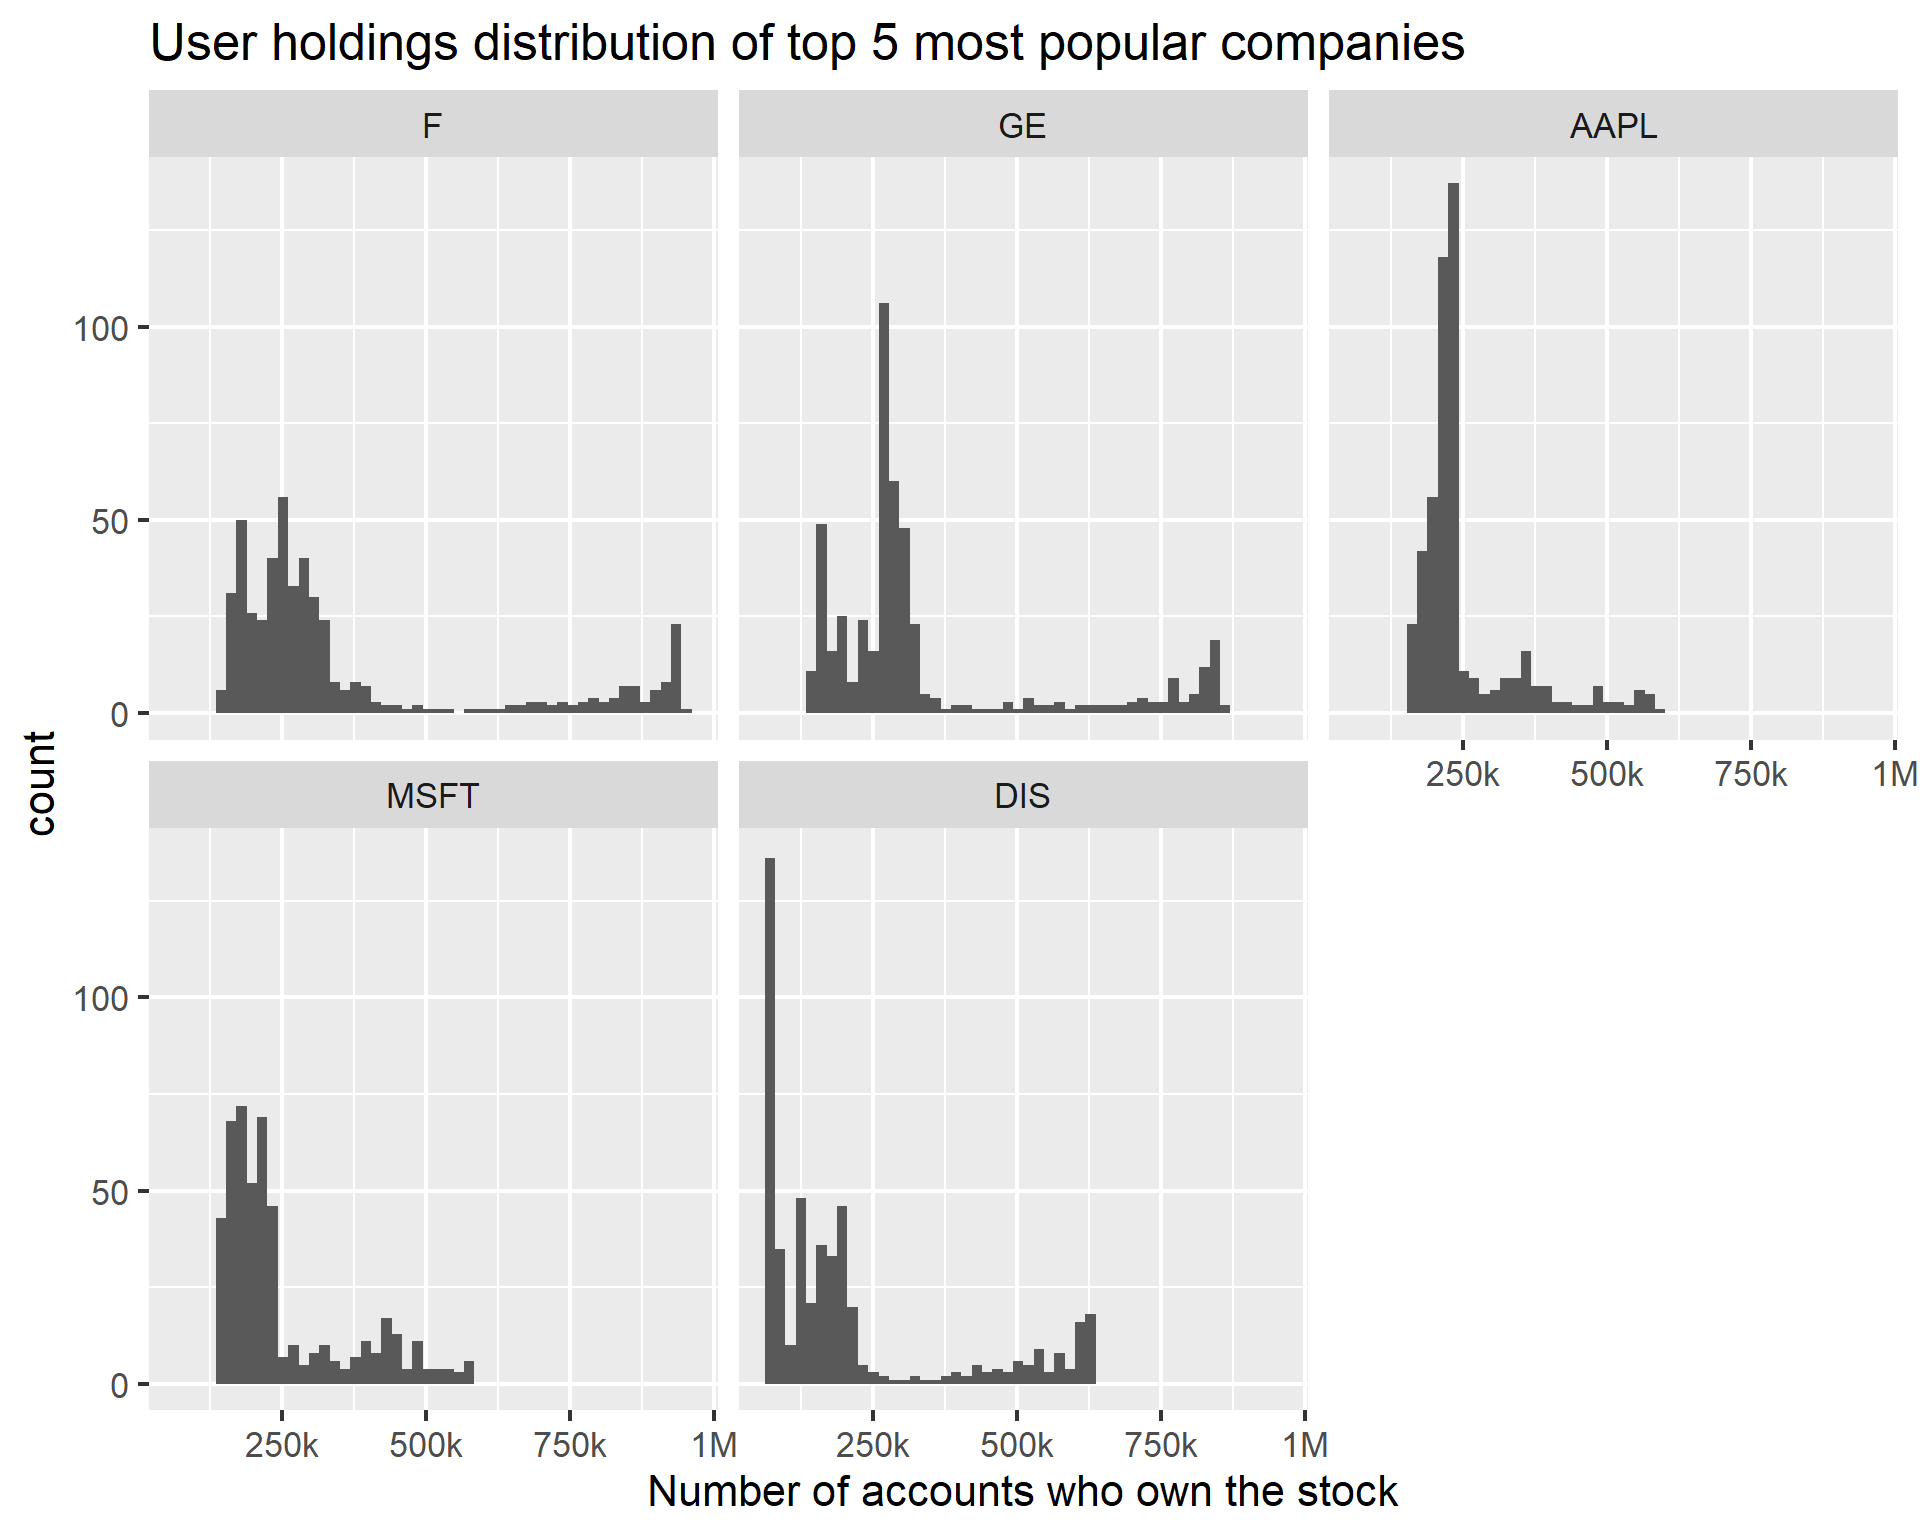
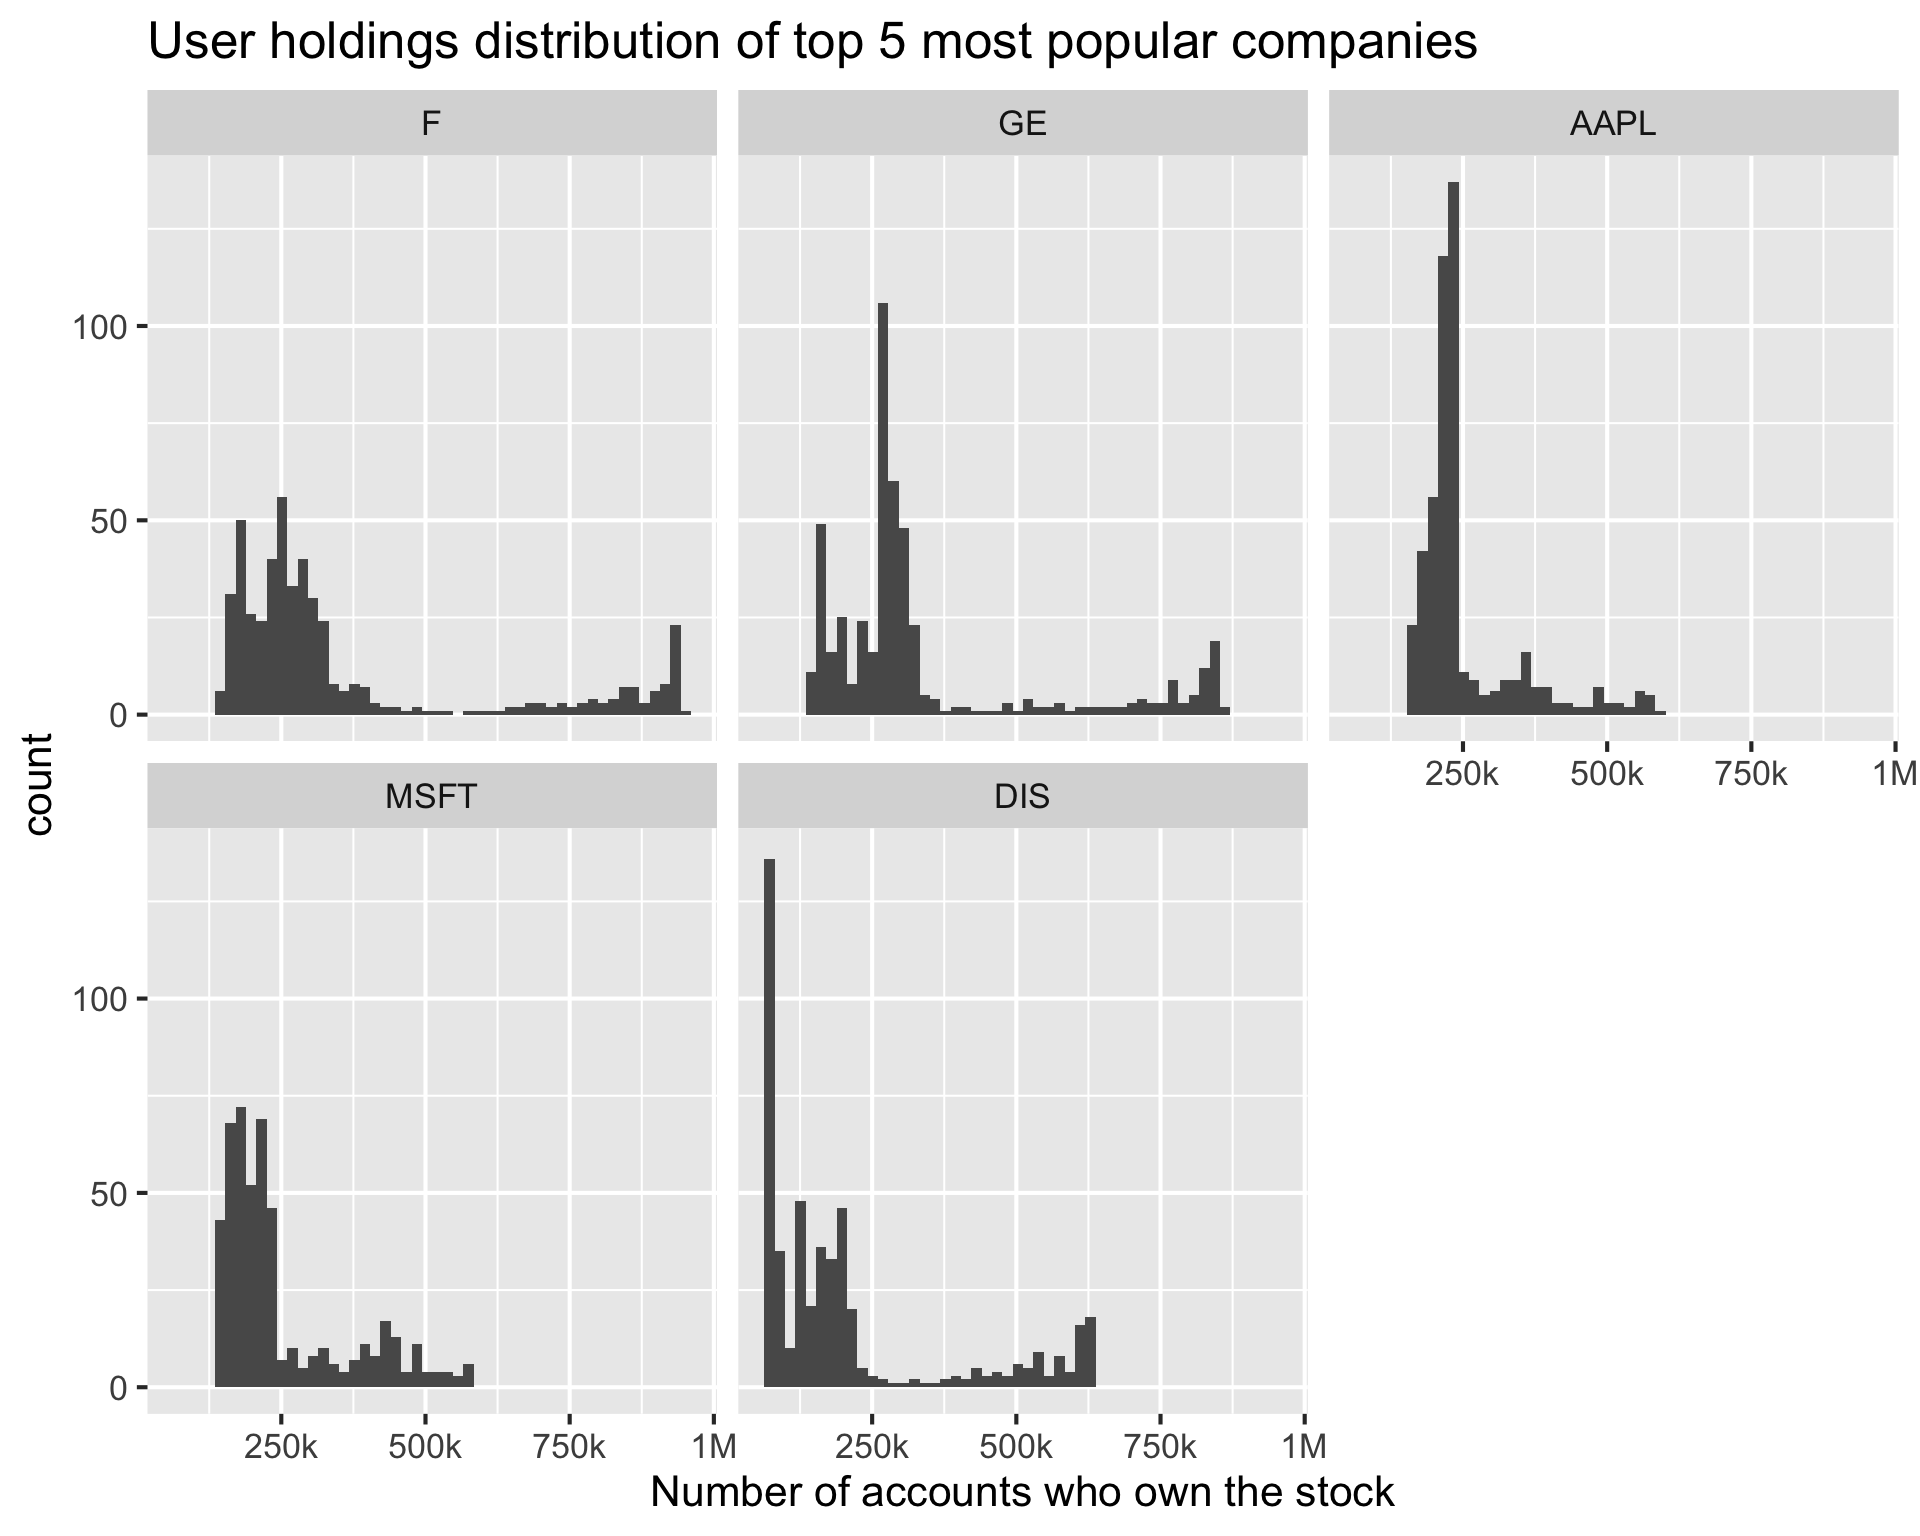
tiny changes on color

diff --git a/docs/results.html b/docs/results.html
@@ -50,7 +50,8 @@
 
 
 
-<script src="libs/accessible-code-block-0.0.1/empty-anchor.js"></script>
+<link href="libs/anchor-sections-1.0/anchor-sections.css" rel="stylesheet" />
+<script src="libs/anchor-sections-1.0/anchor-sections.js"></script>
 
 
 
@@ -185,12 +186,12 @@
 <p>Some observations from the above plot:</p>
 <ul>
 <li><p>There is a major drop in stock prices for all <code>very_popular</code> companies in March 2020. These prices dropped almost two weeks after the first COVID case in the US.</p></li>
-<li><p>Prices recovered from their drop during end of March 2020 and began rising. This increasing trend is in sync with the increasing number of Robinhood users holding these stocks.</p></li>
-<li><p>Price is negatively correlated with the popularity of a stock. For example, Ford and General Electric have the lowest stock prices among the <code>very_popular</code>and they have the highest user’s holding. This aligns with our intuition that the low price makes these two stocks an attractive investment for Robinhood’s users. On the other hand, Microsoft in August 2020 was the most expensive stock to buy and had the lowest amount of users holding it.</p></li>
-<li><p>All <code>very_popular</code> companie’s stock price was dropping during March 2020. After March 2020 stock prices increased. For Microsoft and Apple, stock prices rose so sharply until August 2020 that they were almost double of what they were in August 2018. This rise in price also follows the trend of the increase in numbers of users investing in these companies.</p></li>
-<li><p>Interestingly enough, even though Disney in August 2020 had more user’s holding it’s stock than Apple and Microsoft, it didn’t pick up the sharp increase in price. August 2020 and August 2018 prices are not that different.</p></li>
-<li><p>From August 2018 to November 2020, Disney’s and Microsoft’s stock price was following similar patterns. However, from November 2020 onward, Microsoft had an increase in price and Disney a drop in price. In August 2020 Microsoft’s stock price was almost twice as much as Disney’s.</p></li>
-<li><p>Disney at the end of April 2019 announced plans to launch its own streaming video platform. We can therefore see users increased interst in Disney stock through an increase both in popularity and price. This trend ended due to the pandemic.</p></li>
+<li><p>Prices recovered from their drop during end of March 2020 and began to rise. This price movement is in sync with the increasing number of Robinhood users holding these stocks.</p></li>
+<li><p>Within the top 5, stock price is negatively correlated with the popularity of a stock. For example, Ford and General Electric have the lowest stock prices among the <code>very_popular</code>and they have the highest user holding. This aligns with our intuition that the low price makes these two stocks an attractive investment for Robinhood users. On the other hand, Microsoft in August 2020 was the most expensive stock to buy and had the lowest amount of users holding it.</p></li>
+<li><p>All <code>very_popular</code> companies’s stock price dropped during March 2020. After March 2020 stock prices increased. For Microsoft and Apple, stock prices rose so sharply until August 2020 that they were almost double of what they were in August 2018. This rise in price also follows the trend of the increase in numbers of users investing in these companies.</p></li>
+<li><p>Interestingly enough, even though Disney in August 2020 had more investors than Apple and Microsoft, its price did not pick up sharply in a corresponding manner. The price as of August 2020 was not that different from its price as of August 2018 prices.</p></li>
+<li>From August 2018 to November 2020, Disney’s and Microsoft’s stock price was following similar patterns. However, from November 2020 onward, Microsoft had an increase in price whereas Disney saw a drop in price. In August 2020 Microsoft’s stock price was almost twice as much as Disney’s.</li>
+<li><p>Disney at the end of April 2019 announced plans to launch its own streaming video platform. We can therefore see a slight increase in both stock price and number of investors at that time. However, this trend ended due to the pandemic.</p></li>
 </ul>
 <p>In order to be able to better compare the stock prices among those companies, we standardized all prices to be 100 in August 2018. Our goal is to see their relative increases and decreases till August 2020.</p>
 <p><img src="finalproj_files/figure-html/qplot599-1.png" width="1920" /></p>
@@ -200,15 +201,16 @@
 <li><p>Ford’s price was steady throughout 2018-2019 until March 2019. After than price drop, it didn’t manage to recover fully.</p></li>
 <li><p>Apple’s stock price wasn’t as high as Disney’s and Microsoft’s from December 2018 to October 2019. However, it steadily rose since June 2019 and surpassed Disney’s price in October 2019.</p></li>
 <li><p>It is evident from this graph that both Apple and Microsoft have exhibited similar increasing price patterns during August 2018 - August 2020.</p></li>
+<li><p>Looking at the relative normalized stock performance, we found little correlation between stock performance and number of investors. For example, Ford has poor stock performance in which the stock price still did not recover back to pre-COVID or Aug 2018 levels. Nonetheless, the number of investors was the highest for Ford. Similarly, Apple had the best stock performance relatively to August 2018 but it only had the 4th highest number of investors by August 2020, possibly due to the high stock price as we previously mentioned.</p></li>
 </ul>
-<p>We also looked at the market capitalization of these 5 companies. The market capitalization measures the size of the company’s outstanding equity value. It is calculated by stock price multiplied by the number of shares outstanding.</p>
+<p>We also looked at the market capitalization (market cap) of these 5 companies. The market capitalization measures the size of the company’s outstanding equity value. It is calculated by stock price multiplied by the number of shares outstanding.</p>
 <p><img src="finalproj_files/figure-html/qplot58-1.png" width="1920" /></p>
-<p>Since stock price level is an input in the market capitalization, it is unsurprising that the daily market cap of the companies follow a similar shape to the stock price. In this graph, Apple has a higher market cap than Microsoft despite Microsoft having a higher stock price. This trend is not statistically meaningful because Microsoft simply has lower number of shares outstanding.</p>
-<p>From the graphs, we can see that across all 5 companies, the stock price took a hit in March 2020 coinciding with the onset of the pandemic in the US. After the initial drop in price, the stock prices slowly increased back up. It is not consistent whether the stock prices increased back to the pre-pandemic level. One theory for this behavior is that investors using Robinhood took the opportunity to buy stocks when the price was low. Since these 5 companies are well established companies that are unlikely to be negatively impacted by the pandemic, investors increased their ownership of these stocks. They continued to buy these stocks as the stock prices continue to rise as a positive feedback loop to the positive returns on their investments.</p>
-<p>Lastly, we looked at the VIX index which measure the market-implied pricing for markets volatility. It is an industry standard metric that indicates investor’s expectation for uncertainty with a higher number corresponding to higher volatility.</p>
+<p>Since stock price level is an input in the market capitalization, it is unsurprising that the daily market cap of the companies follow a similar shape to the stock price. Looking at standardized market capitalization make sense in this case because different companies may have varying number of shares at different points of time which do not typically influence an investor’s decision to investor.</p>
+<p>From the graphs, we can see that across all 5 companies, the stock price took a hit in March 2020 coinciding with the onset of the pandemic in the US reducing the corresponding market cap. After the initial drop in price, the stock prices slowly increased back up, increasing the market cap. It is not consistent whether the stock prices increased back to the pre-pandemic level. One theory for this behavior is that investors using Robinhood took the opportunity to buy stocks when the price was low. Since these 5 companies are well established companies that are unlikely to be negatively impacted by the pandemic, investors increased their ownership of these stocks. They continued to buy these stocks as the stock prices continue to rise as a positive feedback loop to the positive returns on their investments.</p>
+<p>Lastly, we looked at the VIX index which measures the market-implied pricing for stock markets volatility. It is an industry standard metric that indicates investor’s expectation for uncertainty with a higher number corresponding to higher volatility.</p>
 <p><img src="finalproj_files/figure-html/qplot60-1.png" width="960" /></p>
 <p>We see that the VIX spiked significantly during the March-April 2020 time frame corresponding to when we saw a drop in stock price. Since the VIX is an indicator across the broader S&amp;P500 index, it suggests that the outsized stock price movement was not limited to just the top 5 companies that we looked at.</p>
-<p>It further validates our original intuition that there is a trend of Robinhood investors taking advantage of the market uncertainty in March/April 2020 to buy certain well-established companies. By buying in well known companies with limited adverse impact from COVID-19, the investors can invest their money in a relatively safe stock that preserve capital and buy at a lower price with the hope that the stock returns back to previous levels. The continuation of higher account owners may be both attributed to higher overall accounts on Robinhood as well as positive feedback from subsequent stock performance.</p>
+<p>It further validates our original intuition that there is a trend of Robinhood investors taking advantage of the market uncertainty in March/April 2020 to buy certain well-established companies. By buying in well known companies with limited adverse impact from COVID-19, the investors can invest their money in a relatively safe stock that preserve capital and buy at a lower price with the hope that the stock returns back to previous levels. The continuation of rising number of investors may be both attributed to higher overall number of accounts on Robinhood as well as positive feedback from subsequent stock performance.</p>
 </div>
 <div id="ownership-vs-founding-year" class="section level2">
 <h2><span class="header-section-number">5.5</span> Ownership vs Founding Year</h2>
@@ -218,7 +220,7 @@
 <ul>
 <li><p>When comparing the old and the medium founding range companies (<code>1784-1892</code>and <code>1894-1952</code>) there seems to be a positive correlation with popularity. Companies that were founded in <code>1894-1952</code> are more likely to belong to the <code>normal</code> and the <code>very_popular</code> categories compared to companies founded in <code>1784-1892</code>.</p></li>
 <li><p>However, this positive correlation trend is broken when we look at the most recently founded companies. This group has the most <code>normal</code> popularity companies across all founding range groups.</p></li>
-<li><p>Companies that were most recently founded have the least count in the <code>very_popular</code> category. We would have been able to identify a positive correlation between how recently a company was founded and how popular the company is among Robinhood users. However this trend is broken in the <code>1954-2019</code> companies.</p></li>
+<li><p>Companies that were most recently founded have the least count in the <code>very_popular</code> category. We would have been able to identify a positive correlation between how recently a company was founded and how popular the company is among Robinhood users. However this trend is broken in the <code>1954-2019</code> companies. This may be due to the limited number of companies in the <code>very_popular</code> category making it difficult to draw meaningful conclusions.</p></li>
 <li><p>Most of the companies are in the <code>not_popular</code> category. It seems that for this category it doesn’t really matter when the company was founded.</p></li>
 </ul>
 <p>A possible explanation of the partial positive correlation between founding year and popularity could due to the fact that older companies have been around for longer and thus people know of them.</p>

diff --git a/docs/index.html b/docs/index.html
@@ -24,7 +24,7 @@
 <meta name="author" content="Jingwen Du, Kassiani Papasotiriou" />
 
 
-<meta name="date" content="2020-12-15" />
+<meta name="date" content="2020-12-16" />
 
   <meta name="viewport" content="width=device-width, initial-scale=1" />
   <meta name="apple-mobile-web-app-capable" content="yes" />
@@ -128,7 +128,7 @@
 <div id="header">
 <h1 class="title">Exploration of the S&amp;P 500 stock ownership in Robinhood between Aug 2018 - Aug 2020</h1>
 <p class="author"><em>Jingwen Du, Kassiani Papasotiriou</em></p>
-<p class="date"><em>2020-12-15</em></p>
+<p class="date"><em>2020-12-16</em></p>
 </div>
 <div id="introduction" class="section level1">
 <h1><span class="header-section-number">Chapter 1</span> Introduction</h1>

diff --git a/docs/conclusion.html b/docs/conclusion.html
@@ -24,7 +24,7 @@
 <meta name="author" content="Jingwen Du, Kassiani Papasotiriou" />
 
 
-<meta name="date" content="2020-12-15" />
+<meta name="date" content="2020-12-16" />
 
   <meta name="viewport" content="width=device-width, initial-scale=1" />
   <meta name="apple-mobile-web-app-capable" content="yes" />

diff --git a/docs/data-sources.html b/docs/data-sources.html
@@ -24,7 +24,7 @@
 <meta name="author" content="Jingwen Du, Kassiani Papasotiriou" />
 
 
-<meta name="date" content="2020-12-15" />
+<meta name="date" content="2020-12-16" />
 
   <meta name="viewport" content="width=device-width, initial-scale=1" />
   <meta name="apple-mobile-web-app-capable" content="yes" />

diff --git a/docs/data-transformation.html b/docs/data-transformation.html
@@ -24,7 +24,7 @@
 <meta name="author" content="Jingwen Du, Kassiani Papasotiriou" />
 
 
-<meta name="date" content="2020-12-15" />
+<meta name="date" content="2020-12-16" />
 
   <meta name="viewport" content="width=device-width, initial-scale=1" />
   <meta name="apple-mobile-web-app-capable" content="yes" />

diff --git a/docs/interactive-component.html b/docs/interactive-component.html
@@ -24,7 +24,7 @@
 <meta name="author" content="Jingwen Du, Kassiani Papasotiriou" />
 
 
-<meta name="date" content="2020-12-15" />
+<meta name="date" content="2020-12-16" />
 
   <meta name="viewport" content="width=device-width, initial-scale=1" />
   <meta name="apple-mobile-web-app-capable" content="yes" />

diff --git a/docs/missing-values.html b/docs/missing-values.html
@@ -24,7 +24,7 @@
 <meta name="author" content="Jingwen Du, Kassiani Papasotiriou" />
 
 
-<meta name="date" content="2020-12-15" />
+<meta name="date" content="2020-12-16" />
 
   <meta name="viewport" content="width=device-width, initial-scale=1" />
   <meta name="apple-mobile-web-app-capable" content="yes" />
